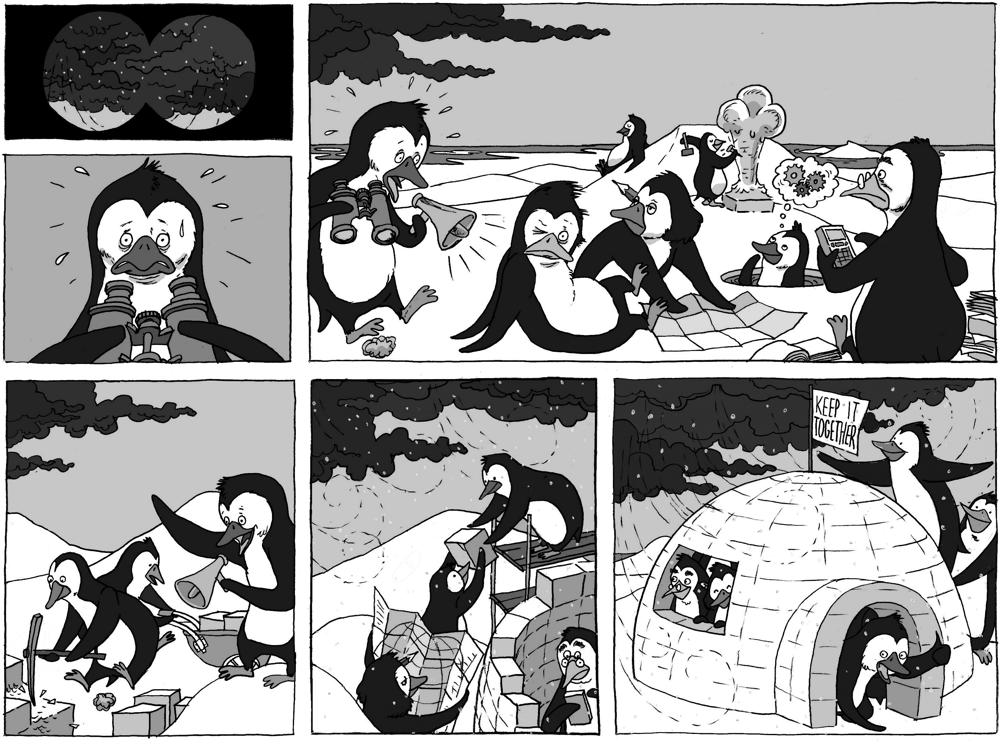
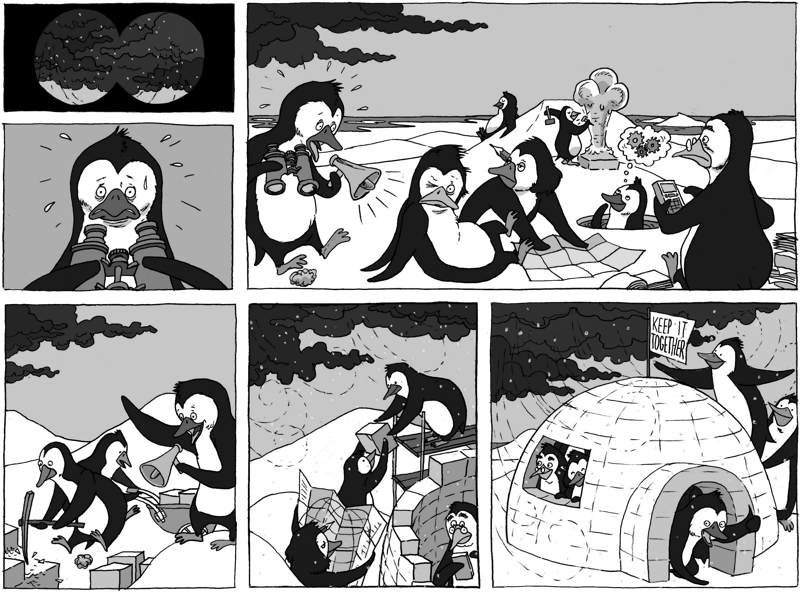
scale image down

diff --git a/css/main.css b/css/main.css
@@ -266,6 +266,10 @@ div.main div.body-outer div.body-inner .cover .subtitle {
     top: 222px;
   }
 }
+div.main div.body-outer div.body-inner .roadmap {
+  width: 800px;
+  margin: 0 auto;
+}
 div.main div.body-outer div.body-inner .roadmap .title-anchor {
   height: 0;
 }
@@ -281,15 +285,15 @@ div.main div.body-outer div.body-inner .roadmap .title-anchor h3.title-a {
   -o-transform: rotate(-90deg);
   /* Internet Explorer */
   filter: progid:DXImageTransform.Microsoft.BasicImage(rotation=3);
-  left: -530px;
-  top: 194px;
-  font-size: 30px;
+  left: -426px;
+  top: 159px;
+  font-size: 28px;
 }
 div.main div.body-outer div.body-inner .roadmap .title-anchor h3.title-b {
   position: relative;
-  left: 440px;
-  font-size: 30px;
-  top: 680px;
+  left: 279px;
+  font-size: 28px;
+  top: 530px;
 }
 div.main div.body-outer div.body-inner .roadmap .title-anchor h3.title-c {
   position: relative;
@@ -303,9 +307,9 @@ div.main div.body-outer div.body-inner .roadmap .title-anchor h3.title-c {
   -o-transform: rotate(90deg);
   /* Internet Explorer */
   filter: progid:DXImageTransform.Microsoft.BasicImage(rotation=3);
-  left: 530px;
-  font-size: 30px;
-  top: 360px;
+  left: 425px;
+  font-size: 28px;
+  top: 260px;
 }
 div.main div.body-outer div.body-inner .roadmap .obfuscated {
   background-color: rgba(0, 0, 0, 0.6);
@@ -329,64 +333,61 @@ div.main div.body-outer div.body-inner .roadmap .mask-anchor .mask span {
   text-align: center;
 }
 div.main div.body-outer div.body-inner .roadmap .mask-anchor .mask-a {
-  width: 303px;
-  height: 374px;
+  width: 240px;
+  height: 296px;
 }
 div.main div.body-outer div.body-inner .roadmap .mask-anchor .mask-b {
-  width: 698px;
-  height: 374px;
-  left: 303px;
+  width: 558px;
+  height: 296px;
+  left: 240px;
 }
 div.main div.body-outer div.body-inner .roadmap .mask-anchor .mask-c {
-  width: 303px;
-  height: 374px;
-  top: 374px;
+  width: 240px;
+  height: 296px;
+  top: 296px;
 }
 div.main div.body-outer div.body-inner .roadmap .mask-anchor .mask-d {
-  width: 303px;
-  height: 374px;
-  top: 374px;
-  left: 303px;
+  width: 243px;
+  height: 296px;
+  top: 296px;
+  left: 240px;
 }
 div.main div.body-outer div.body-inner .roadmap .mask-anchor .mask-e {
-  width: 395px;
-  height: 374px;
-  top: 374px;
-  left: 606px;
+  width: 314px;
+  height: 296px;
+  top: 296px;
+  left: 483px;
 }
 div.main div.body-outer div.body-inner .roadmap .mask-anchor .label-a {
-  top: 374px;
+  top: 302px;
   position: relative;
   left: 0;
   display: block;
   z-index: 1;
 }
 div.main div.body-outer div.body-inner .roadmap .mask-anchor .label-b {
-  top: 378px;
+  top: 301px;
   position: relative;
   display: block;
   z-index: 1;
 }
 div.main div.body-outer div.body-inner .roadmap .mask-anchor .label-c {
-  top: -58px;
+  top: -55px;
   position: relative;
   display: block;
   z-index: 1;
 }
 div.main div.body-outer div.body-inner .roadmap .mask-anchor .label-d {
-  top: -60px;
+  top: -56px;
   position: relative;
   display: block;
   z-index: 1;
 }
 div.main div.body-outer div.body-inner .roadmap .mask-anchor .label-e {
-  top: -60px;
+  top: -56px;
   position: relative;
   display: block;
   z-index: 1;
-}
-div.main div.body-outer div.body-inner .roadmap img {
-  width: 1000px;
 }
 div.main div.body-outer div.body-inner .block {
   text-align: left;

diff --git a/css/main.less b/css/main.less
@@ -300,27 +300,29 @@ div.main {
       }
 
       .roadmap {
+        width: @maxed-width - 200px;
+        margin: 0 auto;
         .title-anchor {
           height: 0;
           h3.title-a {
             position: relative;
             .rotate(-90deg);
-            left: -530px;
-            top: 194px;
-            font-size: 30px;
+            left: -426px;
+            top: 159px;
+            font-size: 28px;
           }
           h3.title-b {
             position: relative;
-            left: 440px;
-            font-size: 30px;
-            top: 680px
+            left: 279px;
+            font-size: 28px;
+            top: 530px;
           }
           h3.title-c {
             position: relative;
             .rotate(90deg);
-            left: 530px;
-            font-size: 30px;
-            top: 360px
+            left: 425px;
+            font-size: 28px;
+            top: 260px;
           }
         }
         .obfuscated {
@@ -336,6 +338,7 @@ div.main {
           .mask {
             position: relative;
             transition: 1s;
+            //border: 1px solid red;
             span {
               background-color: fade(black, 60);
               font-size: 20px;
@@ -346,66 +349,66 @@ div.main {
             }
           }
           .mask-a {
-            width: 303px;
-            height: 374px;
+            width: 240px;
+            height: 296px;
           }
           .mask-b {
-            width: 698px;
-            height: 374px;
-            left: 303px;
+            width: 558px;
+            height: 296px;
+            left: 240px;
           }
           .mask-c {
-            width: 303px;
-            height: 374px;
-            top: 374px;
+            width: 240px;
+            height: 296px;
+            top: 296px;
           }
           .mask-d {
-            width: 303px;
-            height: 374px;
-            top: 374px;
-            left: 303px;
+            width: 243px;
+            height: 296px;
+            top: 296px;
+            left: 240px;
           }
           .mask-e {
-            width: 395px;
-            height: 374px;
-            top: 374px;
-            left: 606px;
+            width: 314px;
+            height: 296px;
+            top: 296px;
+            left: 483px;
           }
 
           .label-a {
-            top: 374px;
+            top: 302px;
             position: relative;
             left: 0;
             display: block;
             z-index: 1;
           }
           .label-b {
-            top: 378px;
+            top: 301px;
             position: relative;
             display: block;
             z-index: 1;
           }
           .label-c {
-            top: -58px;
+            top: -55px;
             position: relative;
             display: block;
             z-index: 1;
           }
           .label-d {
-            top: -60px;
+            top: -56px;
             position: relative;
             display: block;
             z-index: 1;
           }
           .label-e {
-            top: -60px;
+            top: -56px;
             position: relative;
             display: block;
             z-index: 1;
           }
         }
         img {
-          width: @maxed-width;
+          //width: @maxed-width - 200px;
         }
       }
 

diff --git a/index.html b/index.html
@@ -85,11 +85,11 @@
                         </h3>
 
                         <h3 class="title-b">
-                            Leren via doen, ervaren & reflecteren
+                            Leren via doen, ervaren &amp; reflecteren
                         </h3>
 
                         <h3 class="title-c">
-                            Procesbegeleiding & opleiding, training
+                            Procesbegeleiding &amp; opleiding, training
                         </h3>
                     </div>
                     <div class="mask-anchor">
